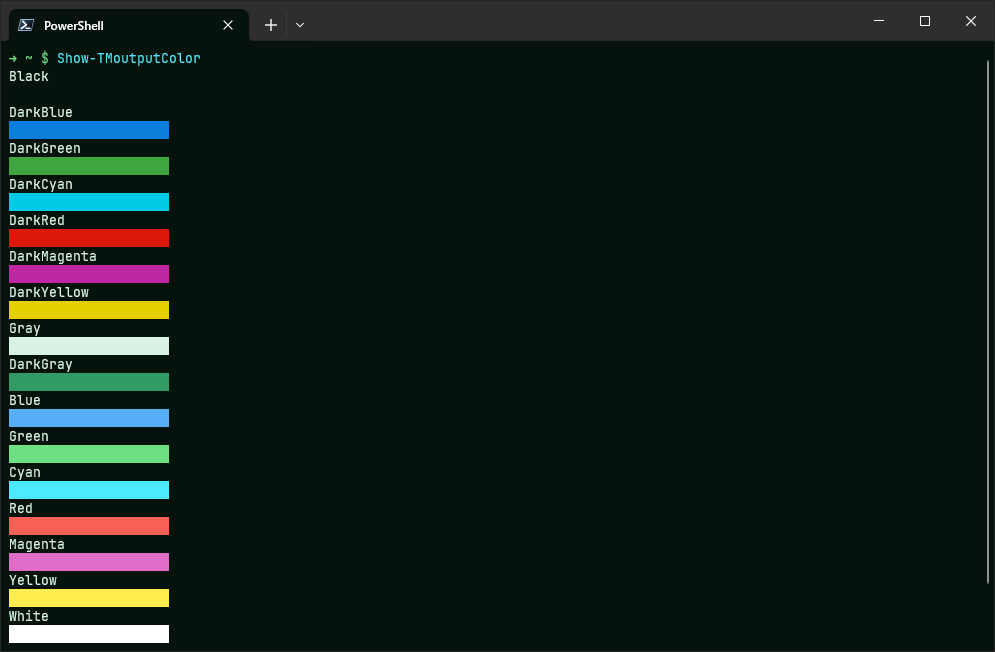
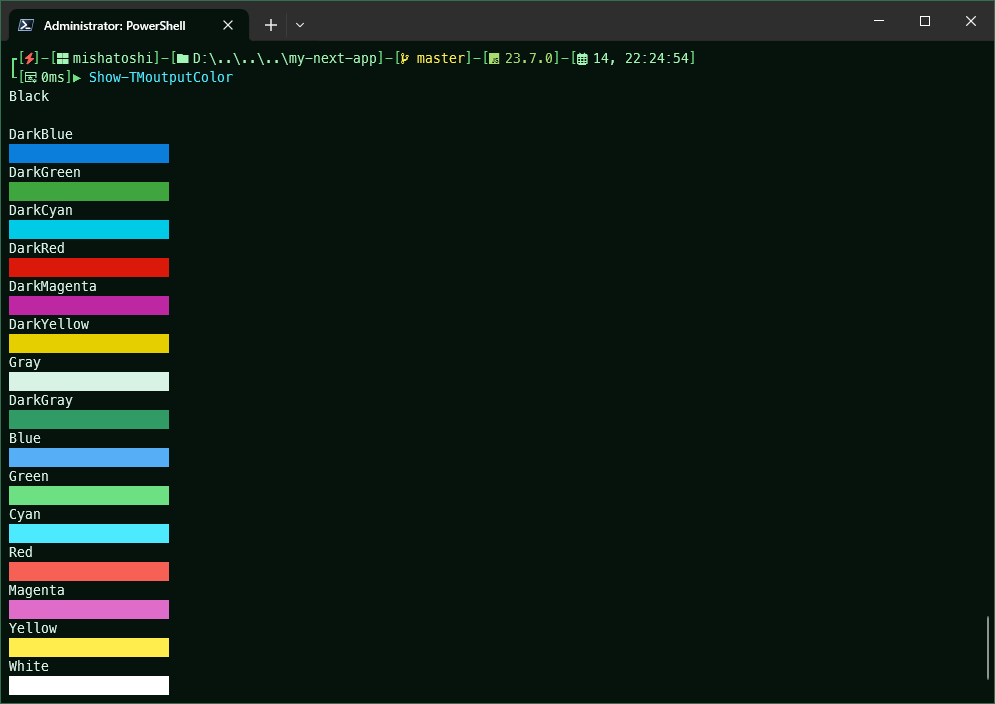
Updated the screenshot

diff --git a/README.md b/README.md
@@ -1,7 +1,7 @@
 <div align="center">
   <img src="./images/mojito-pro-logo.png" width="100px" height="100px">
   <h1>Mojito Pro for Windows Terminal, PowerShell and CMD</h1>
-  <h3>Mojito Theme – easy on the eyes, boosting productivity! 🎨🍃</h3>
+  <h3>🍃 Easy on the eyes, boosting productivity!</h3>
 </div>
 
 <div align="center">
@@ -61,7 +61,7 @@ Example:
 
 ## Installing additional features
 
-1. [Oh My Posh](https://github.com/JanDeDobbeleer/oh-my-posh). A prompt theme engine for any **shell**.
+1. [Oh My Posh](https://ohmyposh.dev). A prompt theme engine for any **shell**.
 
 1. [Terminal-Icons](https://github.com/devblackops/Terminal-Icons). A **PowerShell** module to show file and folder icons in the terminal.
 
@@ -69,6 +69,7 @@ Example:
 
 ## Other versions
 
+* Oh My Posh [https://github.com/mishatoshi/mojito-pro-oh-my-posh-theme](https://github.com/mishatoshi/mojito-pro-oh-my-posh-theme)
 * Visual Studio Code [https://github.com/mishatoshi/mojito-pro-vscode-theme](https://github.com/mishatoshi/mojito-pro-vscode-theme)
 * Flow Launcher [https://github.com/mishatoshi/mojito-pro-flowlauncher-theme](https://github.com/mishatoshi/mojito-pro-flowlauncher-theme)
 

diff --git a/CHANGELOG.md b/CHANGELOG.md
@@ -1,5 +1,12 @@
 # Mojito Pro for Windows Terminal, PowerShell and CMD
 
+## v1.0.1
+
+- Updated the screenshot
+- Added a link to the Mojito Pro theme for Oh My Posh
+
+___
+
 ## v1.0.0
 
 - Initial release
